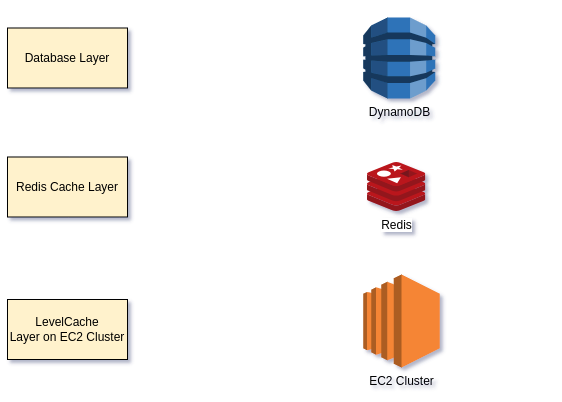
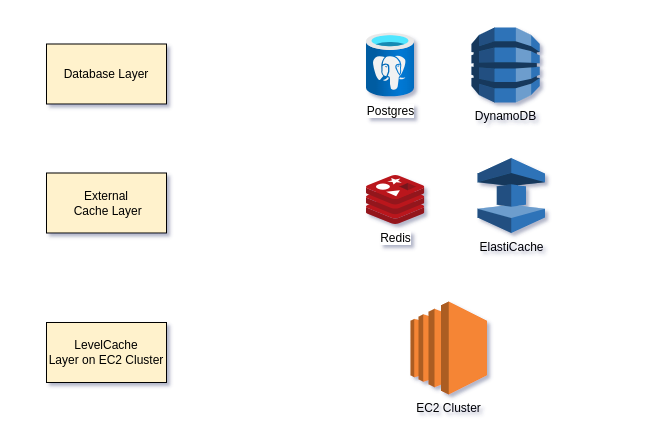
Update: Example usage in documentation

diff --git a/README.md b/README.md
@@ -37,7 +37,7 @@ $ mvn test
 
 # Example and Usage
 
-Imagine a system where data is stored in DynamoDB, but certain data becomes highly popular during peak traffic periods. In such cases, it's beneficial to introduce Redis or Memcached between your web application and the database, and to use a LevelCache within your application to minimize unnecessary network calls.
+Imagine a system where data is stored in Postgres/dynamoDB, but certain data becomes highly popular during peak traffic periods. In such cases, it's beneficial to introduce Redis or ElastiCache between your web application and the database, and to use one or multiple instances of LevelCache within your application to minimize unnecessary network calls.
 
 ![alt_tag](doc/levelcache-usage.png)
 
